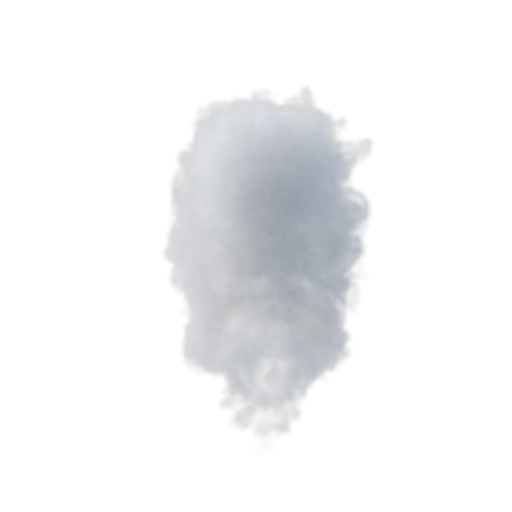
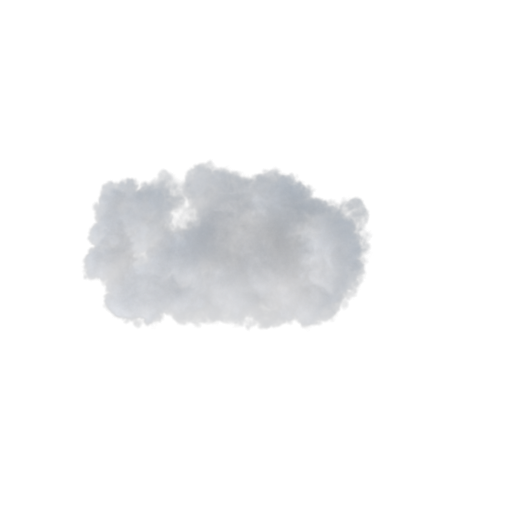
cloud scrolling!!!!!

Changed region(s): [[0.1562, 0.1562, 0.7188, 0.8438]]

diff --git a/assets/landing.css b/assets/landing.css
@@ -18,3 +18,13 @@
     background-image: radial-gradient(circle at 50% 100%, #6AB5DB 0%, #356CBF 69%, #1a488e 100%);
     z-index: -2;
 }
+
+@keyframes cloudscroll {
+    0% {
+        transform: translateY(0%);
+    }
+
+    100% {
+        transform: translateY(-100%);
+    }
+}

diff --git a/tcott/tcott.py b/tcott/tcott.py
@@ -27,36 +27,58 @@ def background():
 class Cloud:
     def __init__(self, index: int):
         self.index: int = index
+
+        if self.index > 13:
+            raise ValueError(
+                "Cloud index must be less than 14. We only got 14 clouds. Sorry, homie pal."
+            )
+
         self.image: str = f"clouds/cloud_{str(self.index).zfill(2)}.png"
-        self.nudge = "-33%" if self.index % 2 == 0 else "33%"
+        # self.nudge = "33%" if self.index % 2 == 0 else "-33%"
+        self.side = "end" if self.index % 2 == 0 else "start"
+        self.nudge = "33%" if self.index % 2 == 0 else "-33%"
 
     def render(self) -> rx.Component:
         return rx.image(
             src=self.image,
             style={
                 "opacity": "0.5",
-                "width": "50vw",
+                "mix-blend-mode": "screen",
+                "width": "69vw",
                 "height": "auto",
+                "align-self": self.side,
                 "transform": f"translateX({self.nudge})",
+                # "border": "1px solid blue",
             },
         )
 
 
-def cloud_column(cloud_count: int = 1):
+def cloud_column(cloud_count: int = 1, cloud_seconds: int = 12):
     return rx.flex(
         *[Cloud(i).render() for i in range(cloud_count)],
         direction="column",
+        spacing="7",
+        style={
+            "animation-name": "cloudscroll",
+            "animation-duration": f"{cloud_count * cloud_seconds}s",
+            "animation-timing-function": "linear",
+            "width": "100%",
+            # "border": "1px solid red",
+        },
     )
 
 
 @rx.page(route="/", title="The Changing of the Trees")
 def landing() -> rx.Component:
     """The landing page."""
-    cloud1 = Cloud(1)
-    return rx.container(
+    return rx.box(
         background(),
-        cloud_column(3),
-        class_name="full-screen",
+        cloud_column(14),
+        style={
+            "overflow": "hidden",
+            "width": "100vw",
+            "height": "100vh",
+        },
     )
 
 
